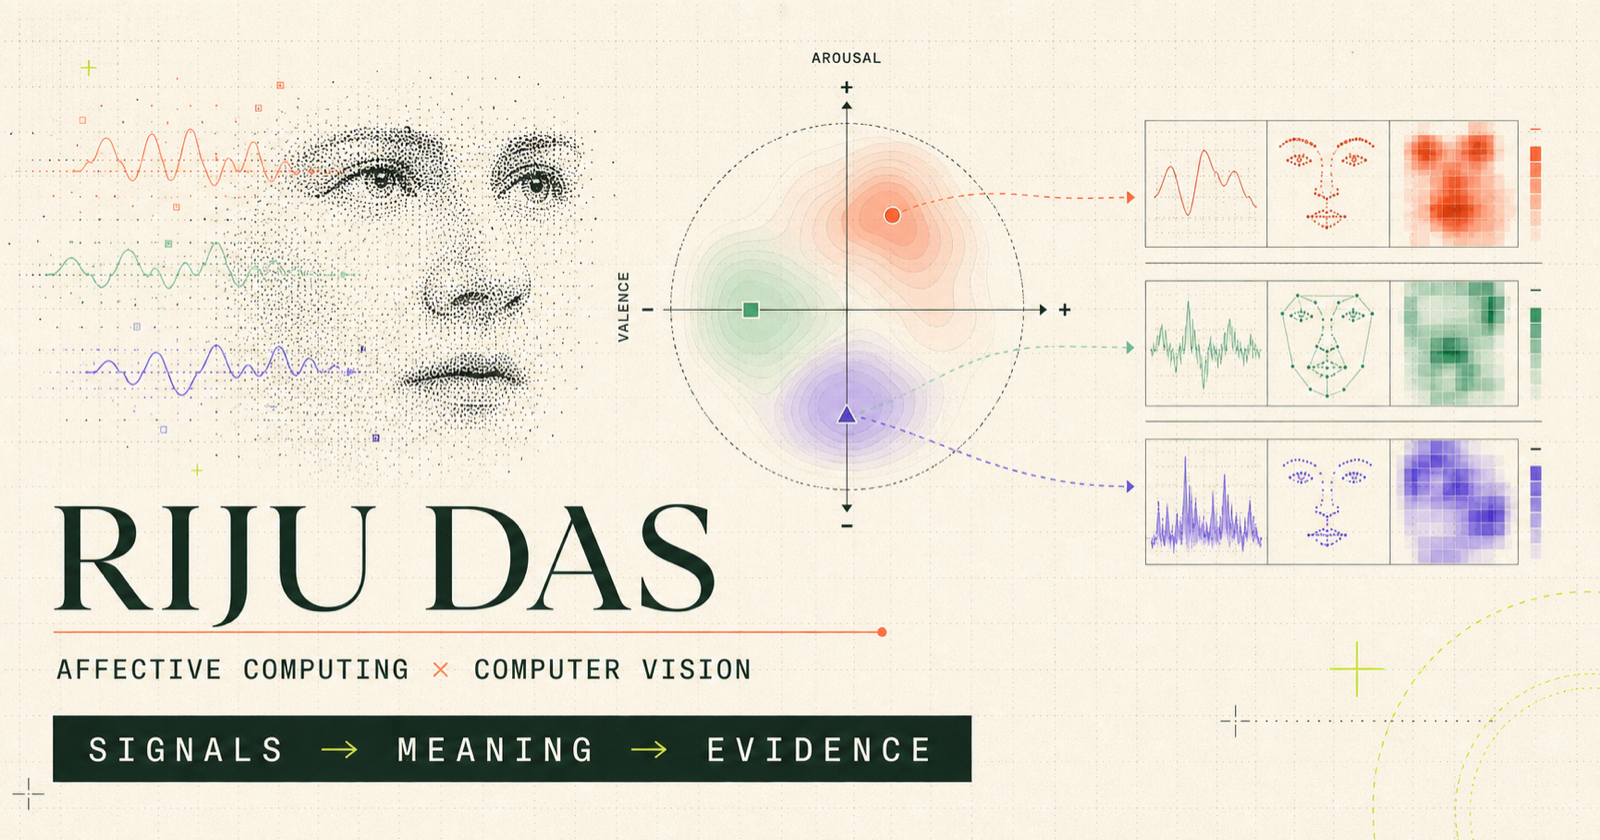
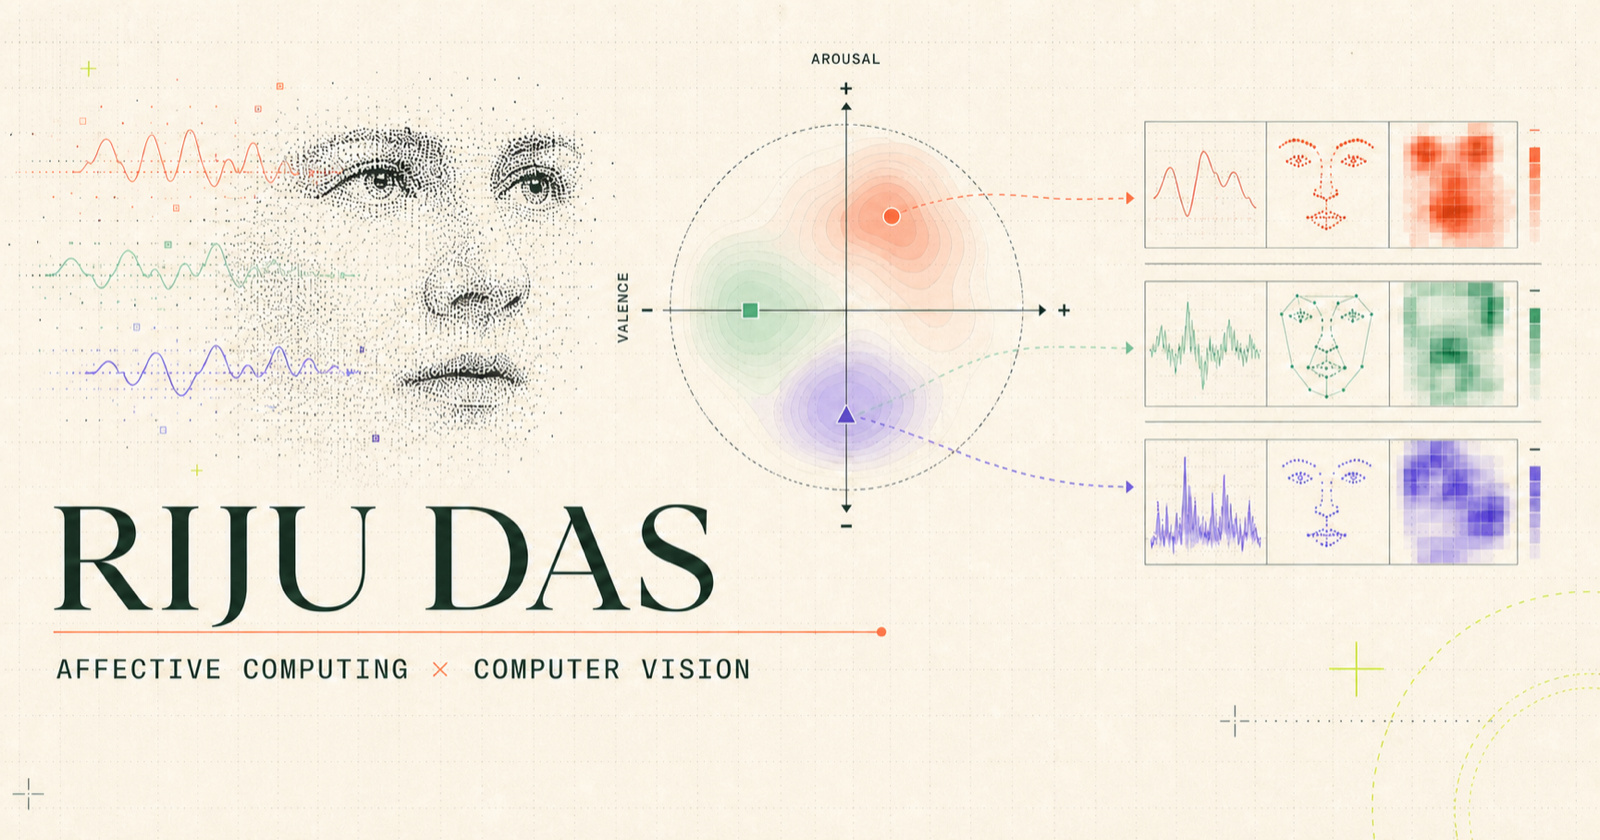
Remove signals meaning evidence slogan

diff --git a/app/layout.tsx b/app/layout.tsx
@@ -14,14 +14,14 @@ export async function generateMetadata(): Promise<Metadata> {
     description: "Researching how visual AI can recognise, describe and explain affective information.",
     openGraph: {
       title: "Riju Das — Affective Computing & Computer Vision",
-      description: "Signals → meaning → evidence: an interactive research portfolio.",
+      description: "An interactive portfolio in affective computing and computer vision.",
       type: "website",
       images: [{ url: new URL("/og.png", base).toString(), width: 1600, height: 900, alt: "Riju Das research portfolio" }],
     },
     twitter: {
       card: "summary_large_image",
       title: "Riju Das — Affective Computing & Computer Vision",
-      description: "Signals → meaning → evidence: an interactive research portfolio.",
+      description: "An interactive portfolio in affective computing and computer vision.",
       images: [new URL("/og.png", base).toString()],
     },
   };

diff --git a/css/styles.css b/css/styles.css
@@ -95,11 +95,6 @@ button { color: inherit; font: inherit; }
 .signal-orbit { position: absolute; inset: 2% -1%; border: 1px solid var(--line); border-radius: 50%; animation: orbit 28s linear infinite; }
 @keyframes orbit { to { transform: rotate(1turn); } }
 
-.statement-band { overflow: hidden; border-block: 1px solid var(--ink); background: #c9f17a; }
-.marquee { display: flex; width: max-content; animation: marquee 25s linear infinite; }
-.marquee span { padding: .7rem 2rem; font: 500 1rem var(--mono); letter-spacing: .1em; text-transform: uppercase; }
-@keyframes marquee { to { transform: translateX(-33.333%); } }
-
 .research, .work, .publications, .journey, .recognition, .skills { padding-block: clamp(6rem, 10vw, 10rem); }
 .section-heading { max-width: 860px; margin-bottom: clamp(3rem, 6vw, 5rem); }
 .section-heading h2 { margin: 0; font: 400 clamp(2.7rem, 5vw, 5.2rem)/.95 var(--serif); letter-spacing: -.045em; }

diff --git a/public/portfolio/css/styles.css b/public/portfolio/css/styles.css
@@ -95,11 +95,6 @@ button { color: inherit; font: inherit; }
 .signal-orbit { position: absolute; inset: 2% -1%; border: 1px solid var(--line); border-radius: 50%; animation: orbit 28s linear infinite; }
 @keyframes orbit { to { transform: rotate(1turn); } }
 
-.statement-band { overflow: hidden; border-block: 1px solid var(--ink); background: #c9f17a; }
-.marquee { display: flex; width: max-content; animation: marquee 25s linear infinite; }
-.marquee span { padding: .7rem 2rem; font: 500 1rem var(--mono); letter-spacing: .1em; text-transform: uppercase; }
-@keyframes marquee { to { transform: translateX(-33.333%); } }
-
 .research, .work, .publications, .journey, .recognition, .skills { padding-block: clamp(6rem, 10vw, 10rem); }
 .section-heading { max-width: 860px; margin-bottom: clamp(3rem, 6vw, 5rem); }
 .section-heading h2 { margin: 0; font: 400 clamp(2.7rem, 5vw, 5.2rem)/.95 var(--serif); letter-spacing: -.045em; }

diff --git a/index.html b/index.html
@@ -63,12 +63,6 @@
         </div>
       </section>
 
-      <section class="statement-band" aria-label="Research statement">
-        <div class="marquee" aria-hidden="true">
-          <span>signals → meaning → evidence</span><span>signals → meaning → evidence</span><span>signals → meaning → evidence</span>
-        </div>
-      </section>
-
       <section class="research section-shell" id="research" aria-labelledby="research-title">
         <div class="section-heading reveal">
           <p class="section-index">01 / Research atlas</p>
@@ -322,7 +316,6 @@
 
     <footer class="site-footer section-shell">
       <p>© <span id="year">2026</span> Riju Das</p>
-      <p>Designed around signals, meaning and evidence.</p>
       <a href="#top">Back to top ↑</a>
     </footer>
   </body>

diff --git a/public/portfolio/index.html b/public/portfolio/index.html
@@ -63,12 +63,6 @@
         </div>
       </section>
 
-      <section class="statement-band" aria-label="Research statement">
-        <div class="marquee" aria-hidden="true">
-          <span>signals → meaning → evidence</span><span>signals → meaning → evidence</span><span>signals → meaning → evidence</span>
-        </div>
-      </section>
-
       <section class="research section-shell" id="research" aria-labelledby="research-title">
         <div class="section-heading reveal">
           <p class="section-index">01 / Research atlas</p>
@@ -322,7 +316,6 @@
 
     <footer class="site-footer section-shell">
       <p>© <span id="year">2026</span> Riju Das</p>
-      <p>Designed around signals, meaning and evidence.</p>
       <a href="#top">Back to top ↑</a>
     </footer>
   </body>
